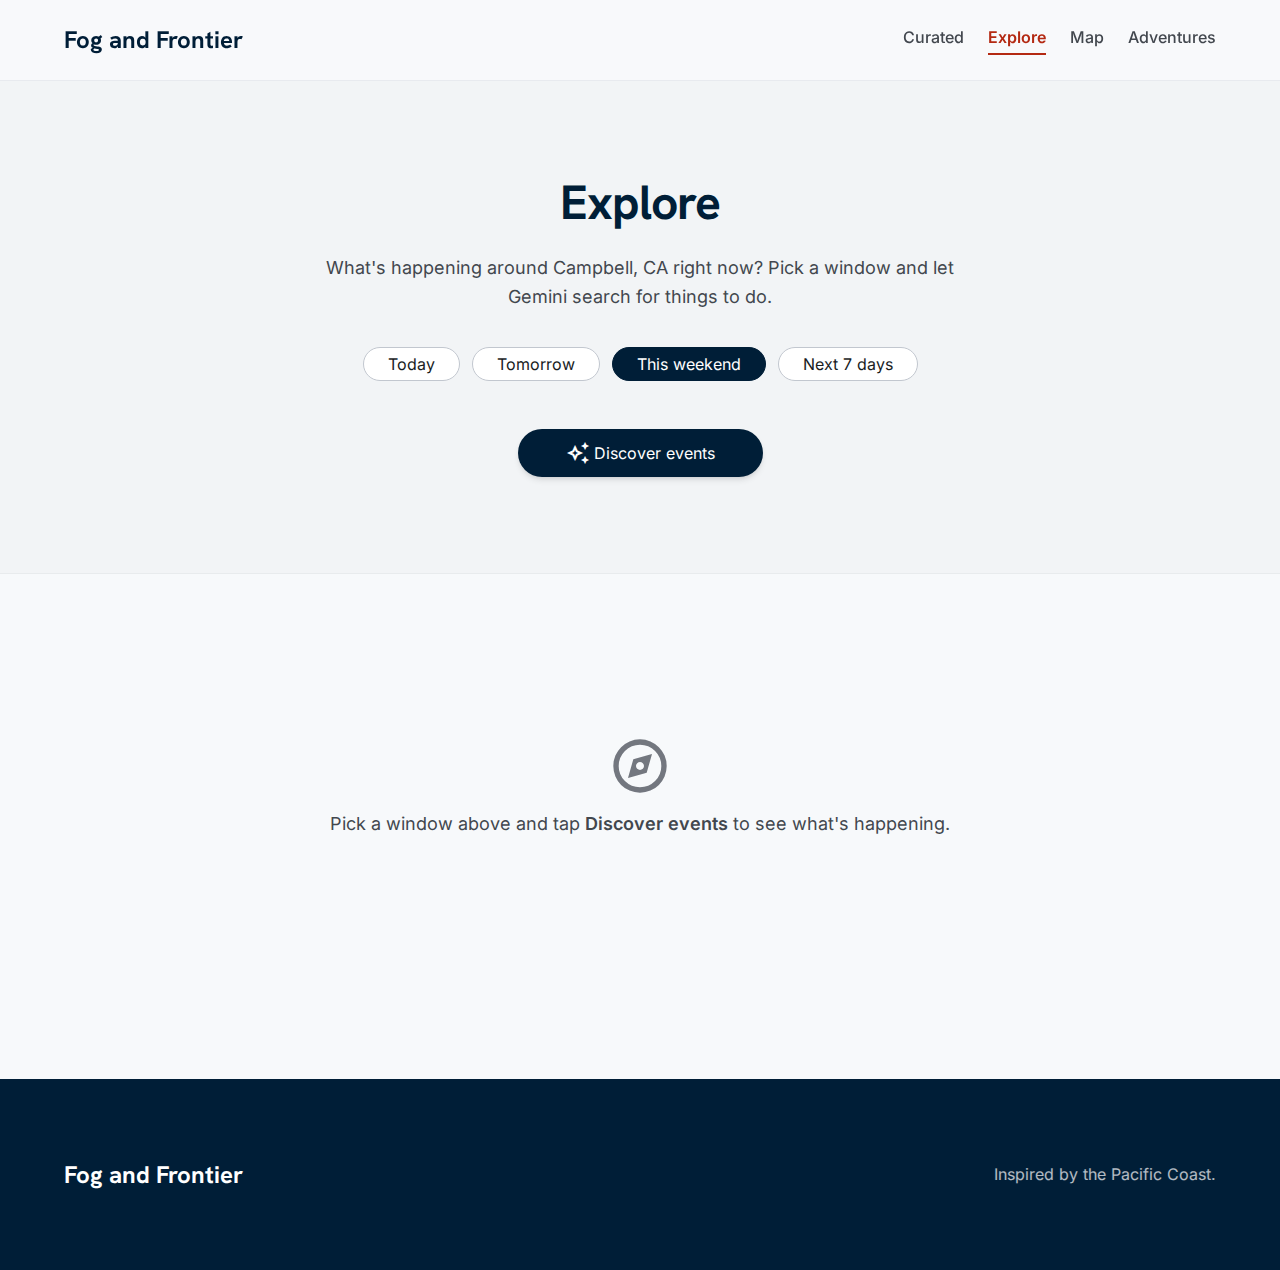
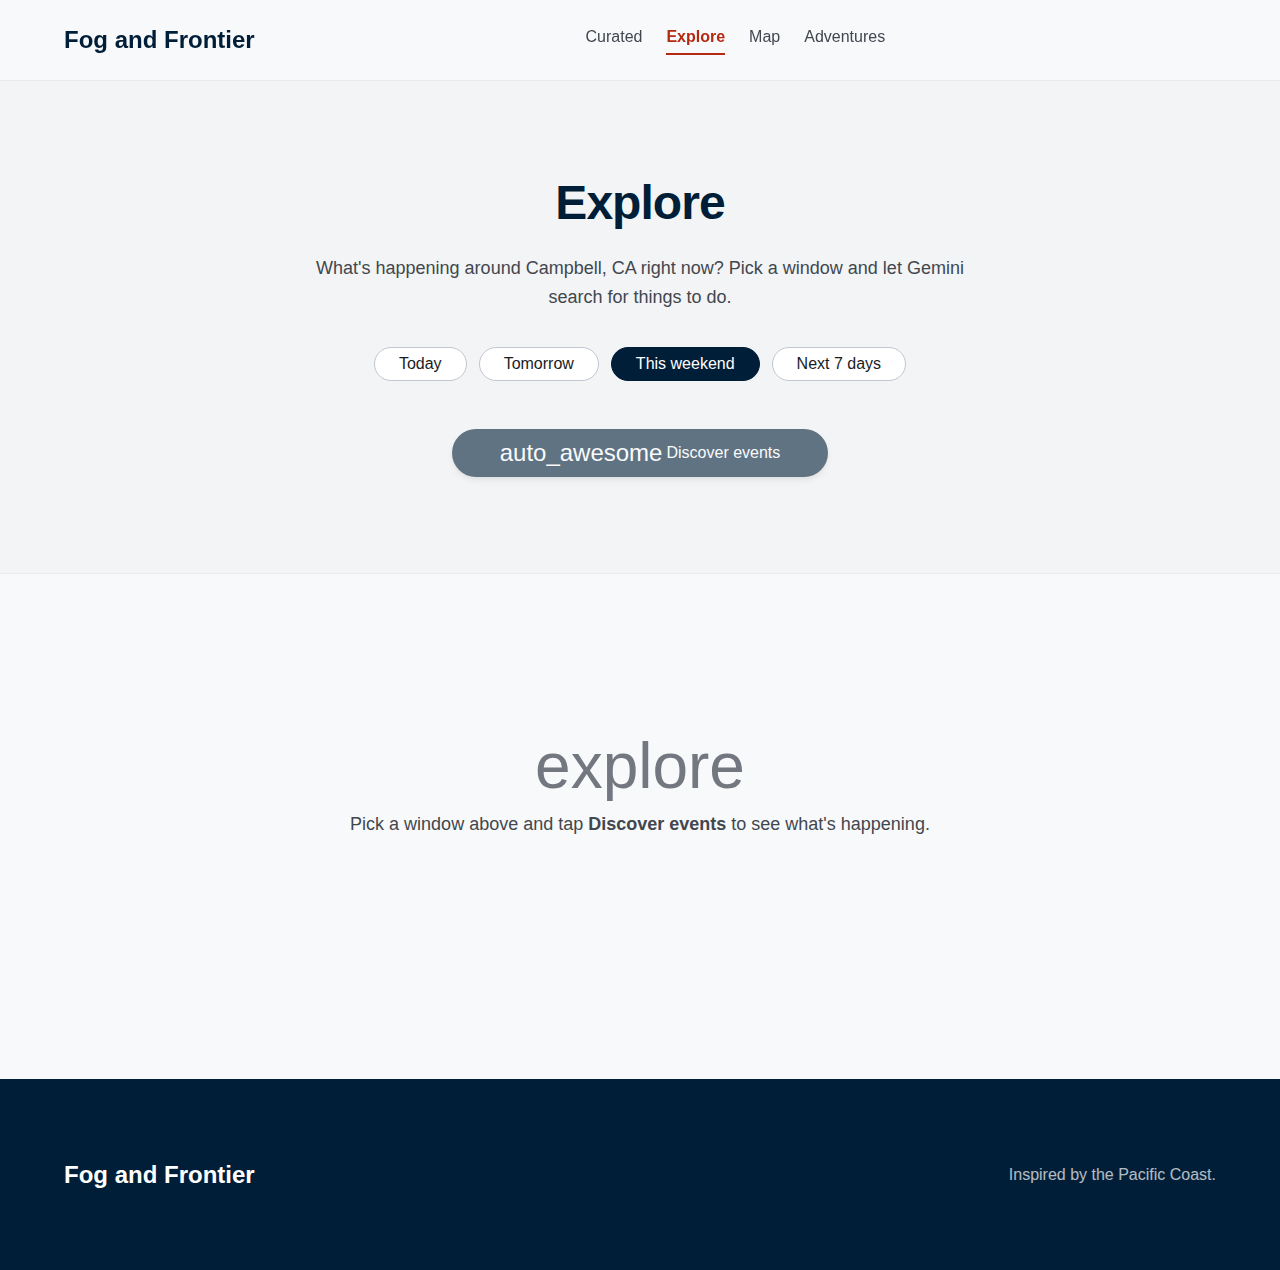
fix(mobile): wrap header on narrow viewports so sign-in is reachable
The Layout header was a single justify-between flex row sized for desktop:
logo + 4 nav links + sign-in button. At iPhone widths (~390-400px) that
overflowed the viewport, pushing the sign-in button off-screen and putting
iOS Safari into horizontal-scroll mode. Combined with the CuratedAdventures
filter bar being sticky-top-20 (relative to the 80px header), the page
became effectively unusable on phones.

Changes:

src/components/Layout.tsx
- Header is now flex-wrap with two rows on mobile (logo + auth on row 1,
  nav full-width on row 2) and a single 80px row on md+. order-* swaps nav
  and auth so justify-between produces the right layout at both breakpoints
  (logo, nav, auth on desktop; logo, auth, nav on mobile).

src/pages/CuratedAdventures.tsx
- Filter bar is sticky only on md+. On mobile the wrapped header already
  consumes ~110px of vertical space; a second sticky bar would crowd out
  the content list. The dog-friendly + add-activity group becomes a
  w-full row on mobile, justify-between, so the toggle and CTA share a
  clean row instead of fighting with ml-auto wrap behaviour.

src/index.css
- body { overflow-x: hidden }. Belt-and-suspenders against any stray wide
  element re-introducing the horizontal-scroll trap.

src/test/setup.ts
- Add AuthenticateWithRedirectCallback to the @user/clerk-react mock so
  App.test.tsx (which renders the full router from the previous commit)
  doesn't fail on the missing export.
[…]

diff --git a/src/components/Layout.tsx b/src/components/Layout.tsx
@@ -17,28 +17,18 @@ export function Layout() {
   return (
     <div className="min-h-screen flex flex-col">
       <header className="bg-surface/80 backdrop-blur-xl sticky top-0 z-50 border-b border-outline-variant/30">
-        <div className="flex justify-between items-center gap-gutter px-margin h-20 w-full max-w-screen-2xl mx-auto">
+        {/* Mobile (default): two-row wrap — [logo, auth] on top, nav full-width
+            below. Desktop (md+): single 80px row with logo, nav, auth spread by
+            justify-between. order-* swaps nav and auth between breakpoints so
+            justify-between works in both layouts. */}
+        <div className="flex flex-wrap items-center justify-between gap-x-gutter gap-y-sm px-margin py-sm md:py-0 md:h-20 w-full max-w-screen-2xl mx-auto">
           <NavLink
             to="/"
-            className="font-display text-headline-md font-bold text-primary"
+            className="order-1 font-display text-headline-md font-bold text-primary"
           >
             Fog and Frontier
           </NavLink>
-          <nav className="flex gap-gutter">
-            <NavLink to="/" end className={navClass}>
-              Curated
-            </NavLink>
-            <NavLink to="/explore" className={navClass}>
-              Explore
-            </NavLink>
-            <NavLink to="/map" className={navClass}>
-              Map
-            </NavLink>
-            <NavLink to="/adventures" className={navClass}>
-              Adventures
-            </NavLink>
-          </nav>
-          <div className="flex items-center">
+          <div className="order-2 md:order-3 flex items-center shrink-0">
             {CLERK_ENABLED && (
               <>
                 <SignedOut>
@@ -57,6 +47,20 @@ export function Layout() {
               </>
             )}
           </div>
+          <nav className="order-3 md:order-2 w-full md:w-auto flex flex-wrap gap-x-md gap-y-xs md:gap-gutter justify-center md:justify-start">
+            <NavLink to="/" end className={navClass}>
+              Curated
+            </NavLink>
+            <NavLink to="/explore" className={navClass}>
+              Explore
+            </NavLink>
+            <NavLink to="/map" className={navClass}>
+              Map
+            </NavLink>
+            <NavLink to="/adventures" className={navClass}>
+              Adventures
+            </NavLink>
+          </nav>
         </div>
       </header>
       <main className="flex-grow">

diff --git a/src/pages/CuratedAdventures.tsx b/src/pages/CuratedAdventures.tsx
@@ -99,7 +99,9 @@ export function CuratedAdventures() {
         </div>
       </section>
 
-      <section className="border-b border-outline-variant/20 bg-surface px-margin py-md sticky top-20 z-40 backdrop-blur-xl">
+      {/* Sticky only on md+; on mobile the header wraps to two rows so a
+          second sticky bar would eat too much vertical space. */}
+      <section className="border-b border-outline-variant/20 bg-surface px-margin py-md md:sticky md:top-20 z-40 backdrop-blur-xl">
         <div className="max-w-screen-2xl mx-auto flex flex-wrap items-center gap-md">
           <FilterPill icon="location_on">
             <select
@@ -140,7 +142,7 @@ export function CuratedAdventures() {
               ))}
             </select>
           </FilterPill>
-          <div className="flex items-center gap-md ml-auto">
+          <div className="flex items-center gap-md w-full md:w-auto md:ml-auto justify-between md:justify-start">
             <div className="flex items-center gap-sm">
               <span className="font-body-md text-on-surface-variant">
                 Dog Friendly

diff --git a/src/index.css b/src/index.css
@@ -133,4 +133,8 @@ body {
   color: var(--color-on-background);
   -webkit-font-smoothing: antialiased;
   -moz-osx-font-smoothing: grayscale;
+  /* Belt-and-suspenders: prevent a stray wide element from breaking
+     iOS scroll/zoom behavior. Any genuine wide content must add its own
+     horizontal scroll. */
+  overflow-x: hidden;
 }

diff --git a/src/test/setup.ts b/src/test/setup.ts
@@ -20,6 +20,7 @@ vi.mock('@clerk/clerk-react', () => ({
   SignInButton: ({ children }: { children: ReactNode }) =>
     createElement(Fragment, null, children),
   UserButton: () => null,
+  AuthenticateWithRedirectCallback: () => null,
 }));
 
 // useUserActivities pulls /api/activities once on mount. In tests we don't